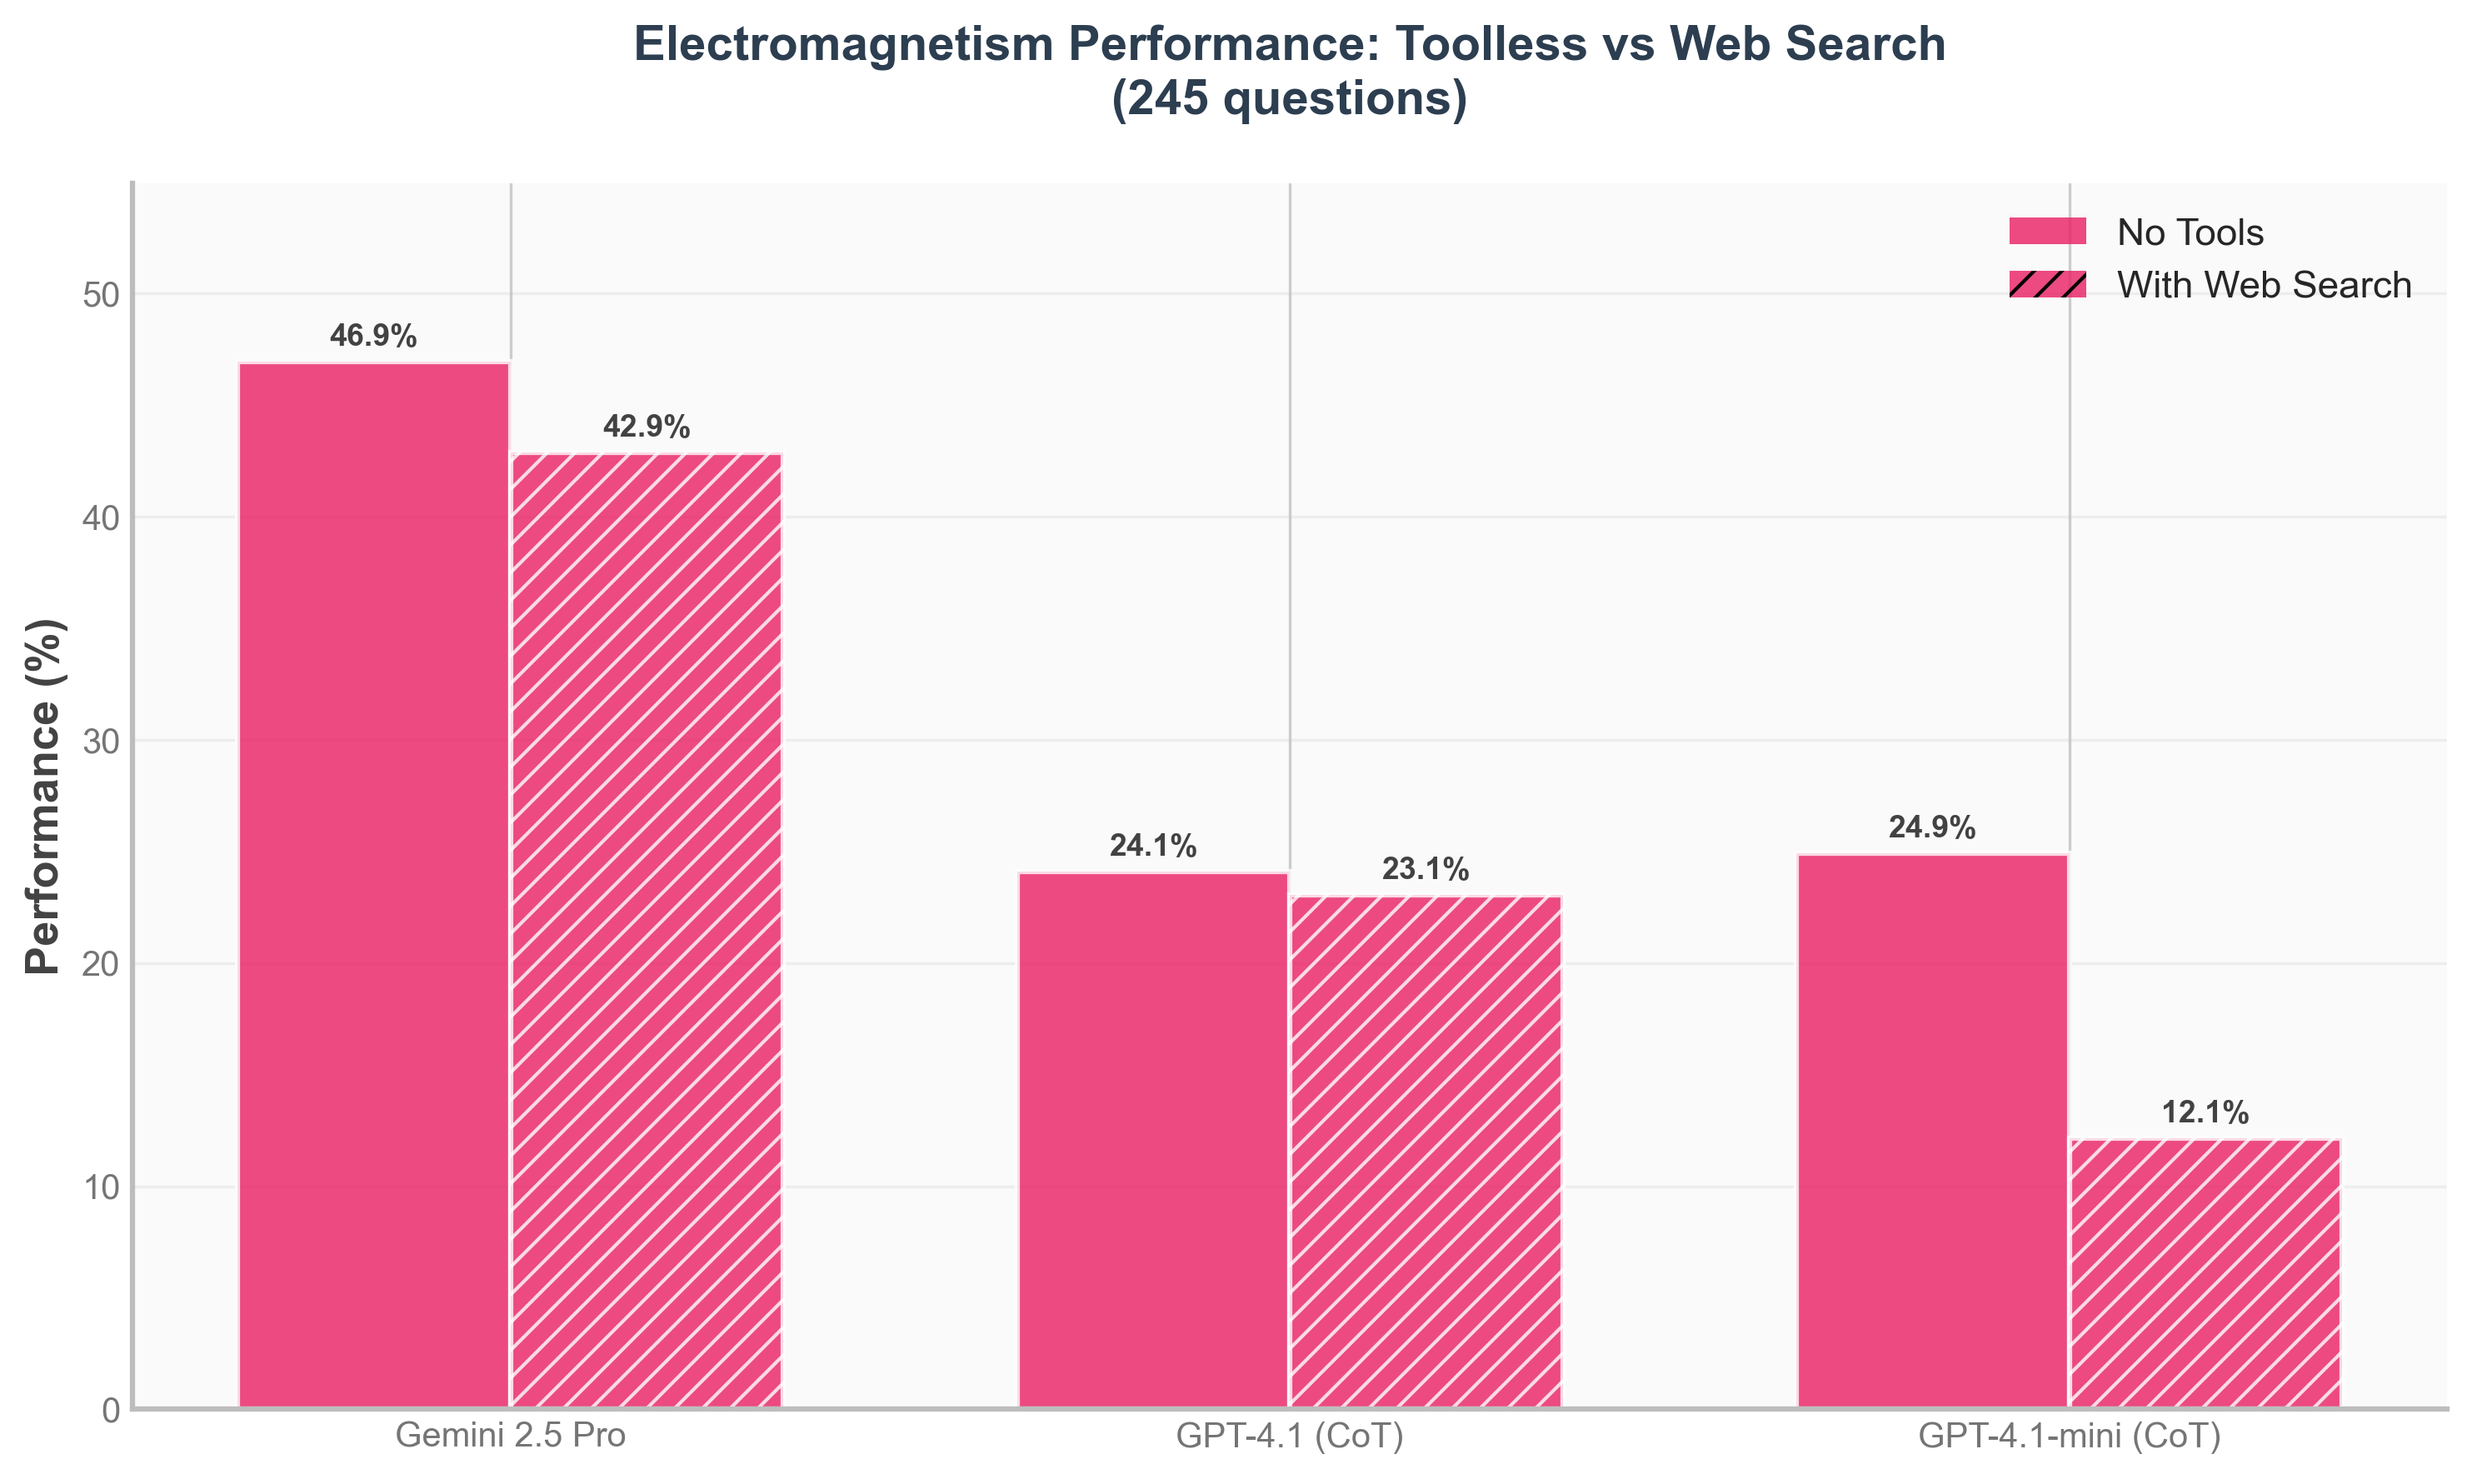
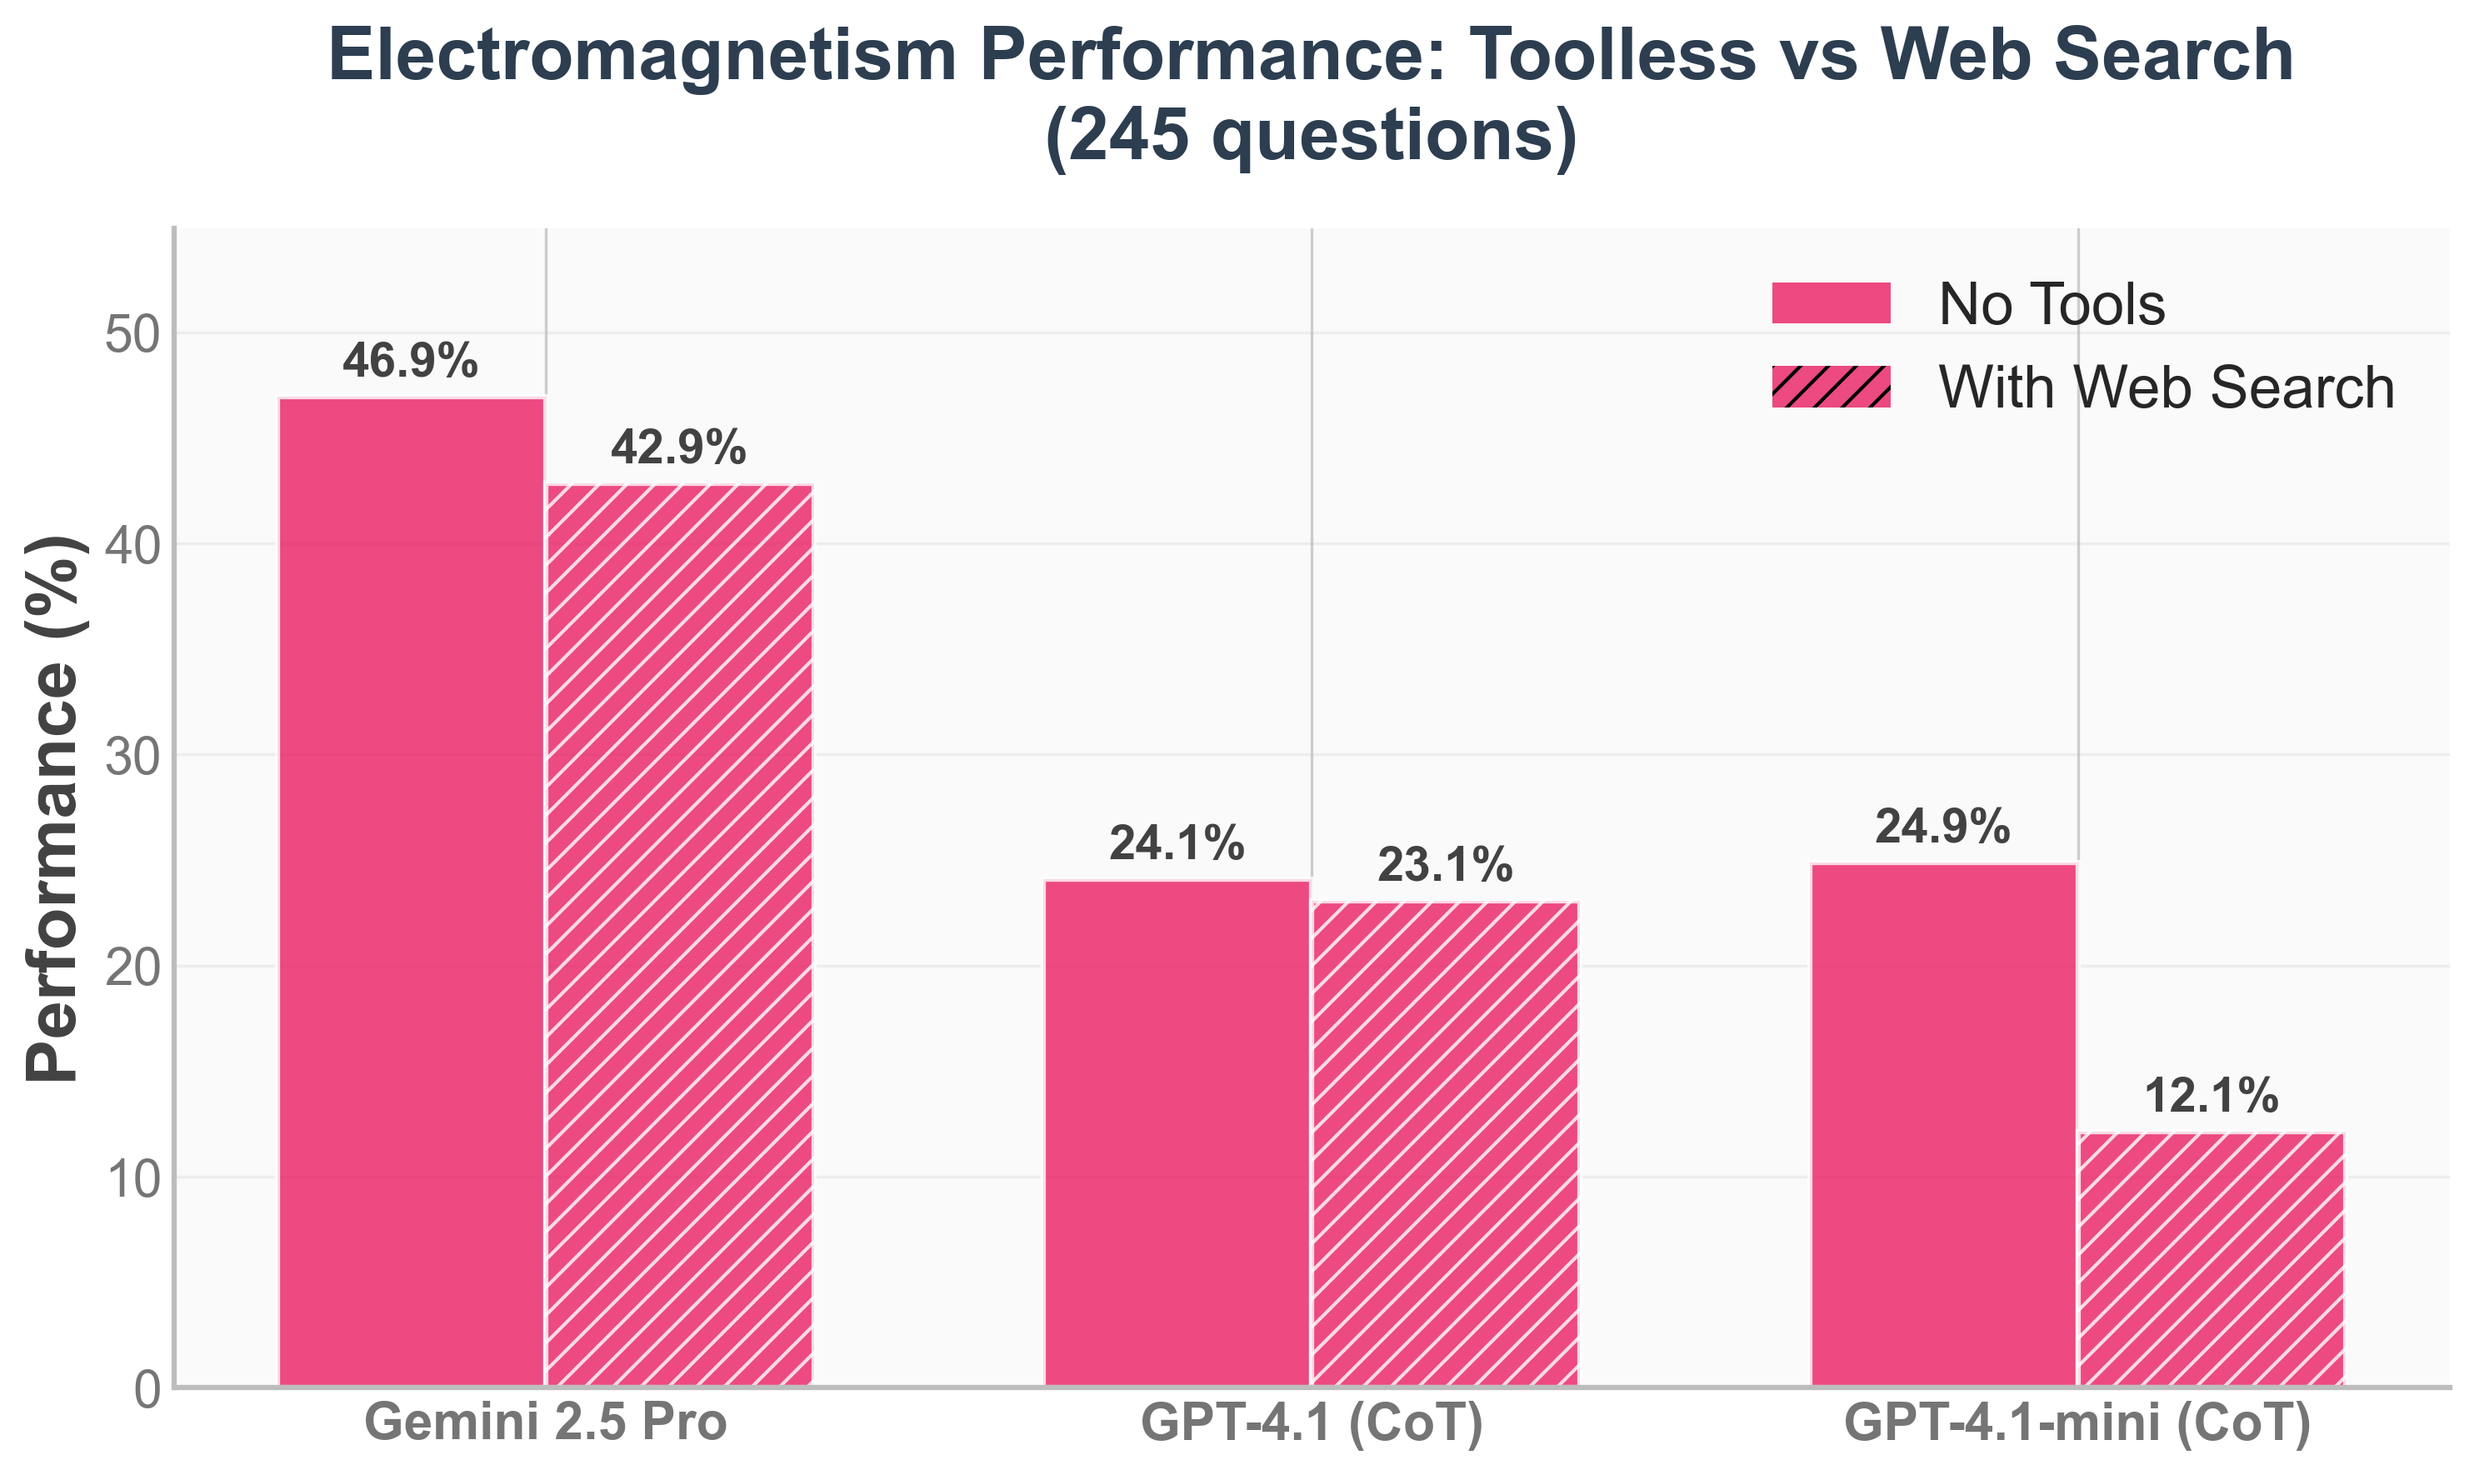
edits

Changed region(s): [[0.0, 0.1864, 0.9922, 0.9944], [0.124, 0.0, 0.9302, 0.1243], [0.7132, 0.1243, 0.9612, 0.2797]]

diff --git a/index.html b/index.html
@@ -209,17 +209,18 @@
             <div class="is-size-5 publication-authors">
               <!-- TODO: Replace with your paper authors and their personal links -->
               <span class="author-block">
-                <a href="https://emk255.github.io" target="_blank">Elliot Kim</a></span>
-                <span class="author-block">
-                  <!-- <a href="SECOND AUTHOR PERSONAL LINK" target="_blank">Second Author</a><sup>*</sup>,</span> -->
+                <a href="https://emk255.github.io" target="_blank">Elliot Kim</a><sup>1</sup></span>
+              <span class="author-block">
+                  <a target="_blank">Howard Meng</a><sup>2</sup></span>
                   <span class="author-block">
-                    <!-- <a href="THIRD AUTHOR PERSONAL LINK" target="_blank">Third Author</a> -->
+                    <a href="https://research4pan.github.io/" target="_blank">Rui Pan</a><sup>2</sup>
                   </span>
                   </div>
 
                   <div class="is-size-5 publication-authors">
                     <!-- TODO: Replace with your institution and conference/journal info -->
-                    <span class="author-block">Cornell University</span>
+                    <span class="author-block"><sup>1</sup>Cornell University</span>
+                    <span class="author-block"><sup>2</sup>University of Illinois Urbana-Champaign</span>
                     <!-- TODO: Remove this line if no equal contribution -->
                     <!-- <span class="eql-cntrb"><small><br><sup>*</sup>Indicates Equal Contribution</small></span> -->
                   </div>
@@ -359,11 +360,11 @@
   <div class="container is-max-desktop">
     <div class="columns is-centered has-text-centered">
       <div class="column is-full">
-        <h2 class="title is-3">Case Study</h2>
+        <h2 class="title is-3">Case Studies: When Web Search is Adversarial</h2>
         
         <div class="content has-text-justified">
           <p>
-            To understand how web search degrades model performance on physics reasoning, we examine specific cases where <u>Gpt-4.1-mini</u> with web search tools produce incorrect solutions that differ from their toolless counterparts. Two representative examples illustrate different failure modes.
+            Our experimental results show that web search <strong>degrades</strong> model performance on physics reasoning. To understand how and why this happens, we examine specific cases where <u>Gpt-4.1-mini</u> with web search tools produces <strong>incorrect</strong> solutions that differ from their toolless counterparts. Two representative examples illustrate different failure modes where web search actively harms reasoning.
           </p>
         </div>
 
@@ -440,6 +441,61 @@
             </ol>
             <p>
               Both cases confirm the existence of the web search's adversarial effect phenomenon. Web search introduces noise into the reasoning process, aligning with previous phenomenon like "Lost in the Middle", where models struggled to distinguish valuable/accurate information when flooded with large amounts of data. The case studies call for potential methodologies to effectively utilize domain filtering. 
+            </p>
+          </div>
+        </div>
+      </div>
+    </div>
+  </div>
+</section>
+<section class="section hero is-light">
+  <div class="container is-max-desktop">
+    <div class="columns is-centered has-text-centered">
+      <div class="column is-full">
+        <h2 class="title is-3">Case Study: When Web Search Helps </h2>
+        
+        <div class="content has-text-justified">
+          <p>
+            While web search <strong>typically degrades</strong> performance on physics reasoning (as shown in the previous section), there are <strong>rare cases</strong> where it provides valuable information that improves model accuracy. We examine a specific example where <u>Gpt-4.1-mini</u> with web search tools produces a <strong>correct</strong> solution that the toolless version fails to solve. This case helps us understand the conditions under which web search can be beneficial, despite its overall adversarial effect.
+          </p>
+        </div>
+
+        <!-- Case Study: Web Search Helps -->
+        <div class="column is-full" style="margin-top: 2rem;">
+          <h3 class="title is-4" style="text-align: left;">Sources with Correct Formulas</h3>
+          
+          <div class="content has-text-justified">
+            <p>
+              <strong>Question 133:</strong> A relativistic optics problem requiring calculation of wavelength shift when light enters a moving medium with refractive index n=1.41 moving at 0.659c.
+            </p>
+            <div class="box" style="background-color: #f8f9fa; border-left: 4px solid #dc3545;">
+              <p class="title is-6" style="color: #721c24; margin-bottom: 0.5rem;">✗ <strong>No Tools (Incorrect):</strong></p>
+              <p style="margin-bottom: 0; font-family: monospace; background-color: white; padding: 0.5rem; border-radius: 3px;">
+                "Use <strong>relativistic velocity addition</strong> to find speed of light inside medium in ground frame: c' = (c/n + V) / (1 + (V c/n)/c²) with V = -0.659c. Calculate c': c' = (c/1.41 - 0.659c) / (1 - 0.659/1.41) ≈ (0.709c - 0.659c)/ (1 - 0.467) = 0.05c / 0.533 ≈ <strong>0.0938c</strong>. Wavelength in ground frame after entering medium is λ' = c'/f. Since frequency f is invariant, wavelength ratio ξ = c'/c = <strong>0.094</strong> ✗"
+              </p>
+            </div>
+            
+            <div class="box" style="background-color: #f8f9fa; border-left: 4px solid #28a745;">
+              <p class="title is-6" style="color: #155724; margin-bottom: 0.5rem;">✓ <strong>With Web Search (Correct):</strong></p>
+              <p style="margin-bottom: 0; font-family: monospace; background-color: white; padding: 0.5rem; border-radius: 3px;">
+                "To find ξ, we need to consider the <strong>relativistic Doppler effect</strong>, which accounts for the change in wavelength due to the relative motion between the source and the observer. The relativistic Doppler shift formula for wavelength is given by: <strong>λ' = λ √[(1 + β) / (1 - β)]</strong>, where β = v/c ... Substituting v = -0.659c into the formula: λ' = λ √[(1 - 0.659) / (1 + 0.659)] ≈ λ √[0.205] ≈ λ × 0.453. Therefore, ξ ≈ <strong>0.453</strong> ✓"
+              </p>
+            </div>
+            <p>
+              <strong>Why Web Search Helped:</strong> The model referenced accurate sources on relativistic Doppler effects (HyperPhysics). It is evident that the model referenced these sources because the same notations (e.g., λ', β, and the specific formula structure) were used in the model's response, as shown in the image below. Without web search, the model misidentified the problem as requiring velocity addition rather than Doppler shift, applying an inappropriate formula and obtaining a physically absurd result (light speed at 9% of c).
+            </p>
+            <img src="static/images/success_case1.png" alt="Case Study: When Web Search Helps" style="width: 100%; height: auto;">
+            
+          </div>
+        </div>
+
+        <!-- Analysis Section -->
+        <div class="column is-full" style="margin-top: 2rem;">
+          <h3 class="title is-4" style="text-align: left;">Analysis</h3>
+          
+          <div class="content has-text-justified">
+            <p>
+              This case study demonstrates that there are rare cases where web search will reference sources that actually help or augment information that is not already known by the model. In this example, the model was able to access authoritative sources (HyperPhysics) that provided the correct relativistic Doppler effect formula and methodology, which the model did not have in its training data. However, such beneficial cases are rare compared to the adversarial effects shown in the previous section, where web search typically introduces noise, incorrect information, or inappropriate source selection that degrades reasoning performance.
             </p>
           </div>
         </div>

diff --git a/static/plots/plot.py b/static/plots/plot.py
@@ -84,14 +84,14 @@ def create_plot(data, subject, questions, filename):
     # Customize axes
     ax.set_ylabel(
         "Performance (%)",
-        fontsize=13,
+        fontsize=20,
         fontweight="600",
         color="#424242",
         fontfamily="sans-serif",
     )
     ax.set_title(
         f"{subject} Performance: Toolless vs Web Search\n({questions} questions)",
-        fontsize=14,
+        fontsize=21,
         fontweight="700",
         pad=20,
         color="#2C3E50",
@@ -100,7 +100,9 @@ def create_plot(data, subject, questions, filename):
 
     # Set x-axis labels - centered between bars
     ax.set_xticks(x)
-    ax.set_xticklabels(data["models"], fontsize=11, color="#424242", ha="center")
+    ax.set_xticklabels(
+        data["models"], fontsize=17, color="#424242", ha="center", fontweight="bold"
+    )
 
     # Add top margin for better spacing between bars and labels
     ax.set_ylim(
@@ -124,7 +126,7 @@ def create_plot(data, subject, questions, filename):
         handles=legend_elements,
         loc="upper right",
         framealpha=0.95,
-        fontsize=11,
+        fontsize=17,
         edgecolor="#E0E0E0",
         fancybox=True,
         shadow=True,
@@ -144,7 +146,7 @@ def create_plot(data, subject, questions, filename):
     ax.spines["bottom"].set_linewidth(1.5)
 
     # Tick styling
-    ax.tick_params(axis="both", colors="#757575", labelsize=10)
+    ax.tick_params(axis="both", colors="#757575", labelsize=15)
 
     # Add value labels on bars
     def add_value_labels(bars, values):
@@ -157,7 +159,7 @@ def create_plot(data, subject, questions, filename):
                     f"{val:.1f}%",
                     ha="center",
                     va="bottom",
-                    fontsize=9,
+                    fontsize=14,
                     fontweight="600",
                     color="#424242",
                 )
